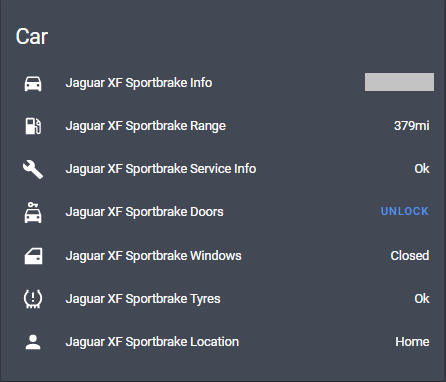
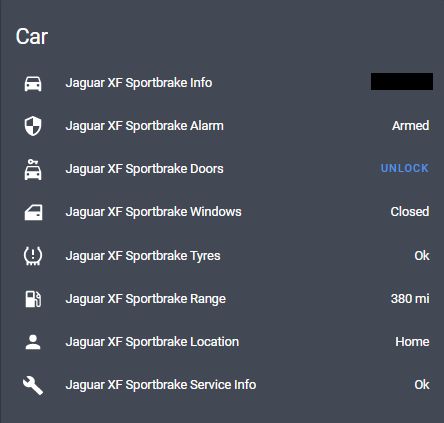
Updated: Readme

diff --git a/README.md b/README.md
@@ -1,8 +1,42 @@
-# JLR Home Assistant Integration (v0.1alpha)
+# JLR Home Assistant Integration (v0.5alpha)
 This repository contains a Home Assistant integration for the Jaguar Landrover InControl system, allowing visibility of key vehicle information and control of enabled services.
 
+## Breaking Change in 0.5alpha
+Due to an issue in the unique ID being generated in the backend for the sensors, this fix causes HA to create new versions of these (all suffixed with _2).
+
+In order to resolve this please follow the below when updating to v0.5alpha.
+1) Comment out the integration in your config.yaml file.
+2) Restart HA
+3) In Configuration -> Entities, delete all the jlrincontrol entities.
+4) Uncomment the integration in your config.yaml file.
+5) Restart HA
+
+Any cards you had setup for sensors you had in the UI and the HA name of these sensors will be the same as before.
+
 # Functionality
-Currently this loads a series of sensors only.  I am in the process of adding services to control the vehicle.
+Currently this loads a series of sensors for
+* Vehicle Info
+* Doors
+* Windows
+* Tyres
+* Range
+* Location
+* Service Info
+
+And has servies for
+* Update Health Status (forces update from vehicle)
+* Honk/Flash
+* Lock/Unlock
+* Start Engine/Stop Engine
+* Start Charging/Stop Charging
+* Reset Alarm
+* Start Preconditioning/Stop Preconditioning
+* Set Max Charge (Always and One Off)
+
+**Note:** Not all services are available on all models and the error log with show this if not available on your vehicle.
+
+**Note 2**: When calling a service, HA will monitor the status of the service call and report in the error log if it failed.  Debug log will show this checking and the success/failure reason.
+
 
 As this is an alpha version, please be aware that updates could include breaking changes as we develop.
 
@@ -10,6 +44,11 @@ Also, due to lack of a fleet of Jaguars and LandRovers/RangeRovers (donations we
 
 # Sample Images
 ![](https://raw.githubusercontent.com/msp1974/homeassistant-jlrincontrol/master/docs/panel1.png)
+
+## Additional Parameters
+1. pin - set this to be able to use the lock/unlock on the lock sensor.
+2. distance_units - set this to 'mi' or 'km' to override the HA default metric for milages (mainly for funny UK system of miles and litres!).
+3. debug_data: - see debugging below.
 
 # Code Installation
 The intention is to make this a HACS install when it has reached a decent level of functionality and stability.  For now please see manual installation instructions.
@@ -32,8 +71,51 @@ I am looking for suggestions to improve this integration and make it useful for 
 # Contributors
 This integration uses the jlrpy api written by [ardevd](https://github.com/ardevd/jlrpy).  A big thanks for all the work you have done on this.
 
+# Debugging
+1. To enable debug logging for this component, add the following to your configuration.yaml
+```
+logger:
+  default: critical
+  logs:
+    custom_components.jlrincontrol: debug
+```
+
+2. To enable logging of the attributes and status data in the debug log, add the following to you configuration.yaml.
+```
+jlrincontrol:
+  username: <your InControl email address>
+  password: <your InControl password>
+  debug_data: true
+```
+
 
 # Change Log
 
-v0.1alpha
+## v0.1alpha
 Initial build of the component to read basic sensors
+
+## v0.2alpha
+* Updated to use jlrpy 1.3.3
+* Added a bunch of new sensor information
+* Better handles vehicles that do not present some sensor info
+
+## v0.3alpha
+* Fixed: Range sensor now handles EVs
+* Added: New EV Charge sensor to show charge information (not fully tested)
+
+## v0.4alpha
+* Added: Improved debugging info to aid diagnosing differences in models
+
+## v0.5alpha
+* Added: Alarm sensor
+* Added: Added services as listed in functionality
+* Fixed: **BREAKING CHANGE** Issue with unique ID could cause duplicates.
+* Fixed: Renamed last updated to last contact and displayed in local time.
+* Updated: (Still WIP) Use HA metrics to display data instead of relying on InControl user prefs as not reliable.
+
+### Known Issues
+* Only works for first vehicle on account
+* Some distance sensors do not show in local units (on list to fix)
+* Service Info sensor shows ok even if car is needing service or adblue top up (on list to fix)
+
+
